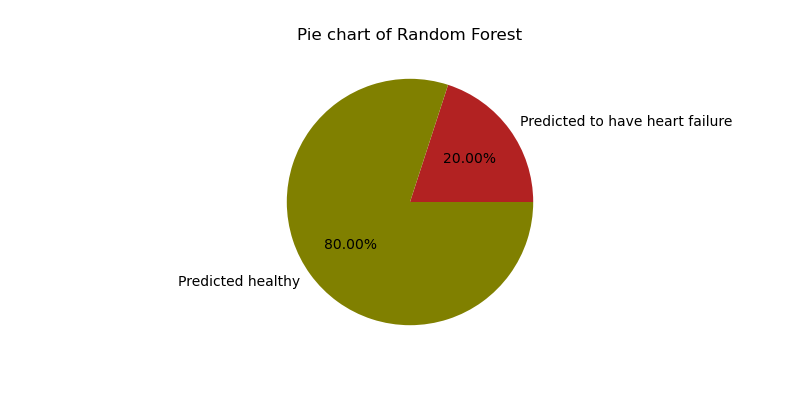
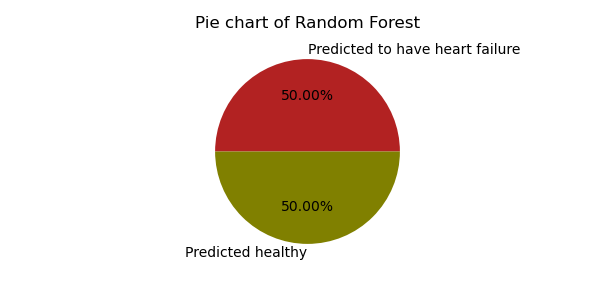
Update

diff --git a/prediction.py b/prediction.py
@@ -121,7 +121,8 @@ def plot_confusion_matrix(y_test, y_pred,modelname):
 def ROC_curve(y_test, y_pred_proba,modelname):
     fpr, tpr, _ = roc_curve(y_test, y_pred_proba[:,1])
     roc_auc = auc(fpr, tpr)
-    fig = plt.plot(fpr, tpr, 'b', label = '%s (AUC = %0.2f)' % (modelname,roc_auc))
+    fig = plt.figure()
+    plt.plot(fpr, tpr, 'b', label = '%s (AUC = %0.2f)' % (modelname,roc_auc))
     plt.plot([0, 1], [0, 1],'r--', label='No Skill Classifier')
     plt.plot([0, 0, 1], [0, 1, 1], linestyle=':', color='black', label='perfect performance')
     plt.legend(loc = 'lower right')
@@ -135,7 +136,8 @@ def ROC_curve(y_test, y_pred_proba,modelname):
 def PR_curve(y_test, y_pred_proba,modelname):
     precision, recall, _= precision_recall_curve(y_test,y_pred_proba[:,1])
     no_skill = len(y_test[y_test==1]) / len(y_test)
-    fig = plt.plot(recall, precision, marker='.', label='%s ' % modelname)
+    fig = plt.figure()
+    plt.plot(recall, precision, marker='.', label='%s ' % modelname)
     plt.plot([0, 1], [no_skill, no_skill], linestyle='--', label='No Skill Classifier')
     plt.xlabel('Recall')
     plt.ylabel('Precision')
@@ -154,6 +156,30 @@ def Scores(y_test,y_pred,y_pred_proba):
     return None
     
 
+def plot_learning_curve(dataset, estimator,modelname):
+    x=dataset.drop(columns='HeartDisease')#dataset except target
+    y=dataset['HeartDisease']#target
+    train_sizes, train_scores, test_scores = learning_curve(estimator, x, y)
+    train_scores_mean = np.mean(train_scores, axis=1)
+    train_scores_std = np.std(train_scores, axis=1)
+    test_scores_mean = np.mean(test_scores, axis=1)
+    test_scores_std = np.std(test_scores, axis=1)
+    fig = plt.figure()
+    plt.xlabel("Training examples")
+    plt.ylabel("Score")
+    plt.title('Learning Curve: %s '% modelname, fontsize='small')
+    plt.grid()
+    plt.fill_between(train_sizes, train_scores_mean - train_scores_std, train_scores_mean + train_scores_std, 
+                         alpha=0.1, color="b") 
+    plt.fill_between(train_sizes, test_scores_mean - test_scores_std, test_scores_mean + test_scores_std, 
+                         alpha=0.1, color="r")
+    plt.plot(train_sizes, train_scores_mean, 'o-', color="r",label="Training score")
+    plt.plot(train_sizes, test_scores_mean, 'o-', color="g",label="Cross-validation score")
+    plt.legend(loc="best")
+    plt.show()
+    fig.savefig("%s_Learning_curve.png" % modelname)
+
+
 def logisticRegression(dataset):
     X = dataset.drop(['HeartDisease'], axis=1)
     Y = dataset['HeartDisease']
@@ -170,8 +196,7 @@ def logisticRegression(dataset):
     ROC_curve(y_test, y_pred_proba,'Logistic Regression')
     PR_curve(y_test, y_pred_proba,'Logistic Regression')
     Scores(y_test,y_pred,y_pred_proba)
-    data=read_data()
-    plot_learning_curve(data,lr)
+    plot_learning_curve(dataset,lr,'Logistic Regression')
     return y_test, y_pred, y_pred_proba
 
 
@@ -191,8 +216,7 @@ def RandomForest(dataset):
     ROC_curve(y_test, y_pred_proba,'RandomForest')
     PR_curve(y_test, y_pred_proba,'RandomForest')
     Scores(y_test,y_pred,y_pred_proba)
-    data=read_data()
-    plot_learning_curve(data,rf)
+    plot_learning_curve(dataset,rf,'RandomForest')
     return y_test, y_pred, y_pred_proba
 
 
@@ -210,10 +234,8 @@ def decision_tree(dataset):
     ROC_curve(y_test, y_pred_proba,'Decision Tree')
     PR_curve(y_test, y_pred_proba,'Decision Tree')
     Scores(y_test,y_pred,y_pred_proba)
-    data=read_data()
-    plot_learning_curve(data,model)
+    plot_learning_curve(dataset,model,'Decision Tree')
     return y_test, y_pred, y_pred_proba
-
 
 
 def gaussian_nb(dataset):
@@ -229,32 +251,8 @@ def gaussian_nb(dataset):
     ROC_curve(y_test, y_pred_proba,'Gaussian Naive Bayes')
     PR_curve(y_test, y_pred_proba,'Gaussian Naive Bayes')
     Scores(y_test,y_pred,y_pred_proba)
-    data=read_data()
-    plot_learning_curve(data,GNB)
+    plot_learning_curve(dataset,GNB,'Gaussian Naive Bayes')
     return y_test, y_pred, y_pred_proba
-
-
-def plot_learning_curve(dataset, estimator):
-    x=dataset.drop(columns='HeartDisease')#dataset except target
-    y=dataset['HeartDisease']#target
-    train_sizes, train_scores, test_scores = learning_curve(estimator, x, y)
-    train_scores_mean = np.mean(train_scores, axis=1)
-    train_scores_std = np.std(train_scores, axis=1)
-    test_scores_mean = np.mean(test_scores, axis=1)
-    test_scores_std = np.std(test_scores, axis=1)
-    plt.xlabel("Training examples")
-    plt.ylabel("Score")
-    plt.title("Learning Curve",fontsize='small')
-    plt.grid()
-    plt.fill_between(train_sizes, train_scores_mean - train_scores_std, train_scores_mean + train_scores_std, 
-                         alpha=0.1, color="b") 
-    plt.fill_between(train_sizes, test_scores_mean - test_scores_std, test_scores_mean + test_scores_std, 
-                         alpha=0.1, color="r")
-    plt.plot(train_sizes, train_scores_mean, 'o-', color="r",label="Training score")
-    plt.plot(train_sizes, test_scores_mean, 'o-', color="g",label="Cross-validation score")
-    plt.legend(loc="best")
-
-    plt.show()
 
 
 def gui_visual():
@@ -266,84 +264,55 @@ def gui_visual():
         model_choice = gui.choicebox(msg='Which models would you like to use ', title=' Heart Failure Prediction', choices=['Logistic Regression','Random Forest','Decision Tree','Gaussian Naive Bayes'])
         gui.msgbox('Click to see your predicted result')
         # print(patience_information)
-        # print(model_choice)
-        patience_information_p = ['40', 'M', 'ATA', '140', '289', '0', 'Normal', '172', 'N', '0', 'Up']
-        # patience_information_n = ['49', 'F', 'NAP', '160', '180', '0', 'Normal', '156', 'N', '1', 'Flat']
-        new_input = DataFrame(patience_information_p).T
+        # patience_information_p = ['40', 'M', 'ATA', '140', '289', '0', 'Normal', '172', 'N', '0', 'Up']
+        patience_information_n = ['49', 'F', 'NAP', '160', '180', '0', 'Normal', '156', 'N', '1', 'Flat']
+        new_input = DataFrame(patience_information_n).T
         new_input.columns = ['Age','Sex','ChestPainType','RestingBP','Cholesterol','FastingBS','RestingECG','MaxHR','ExerciseAngina','Oldpeak','ST_Slope']
         new_input.insert(new_input.shape[1],'HeartDisease','0')
         new_input.apply(pd.to_numeric, errors='ignore')
         new_input.info()
         new_input[['Age','RestingBP','Cholesterol','FastingBS','MaxHR','Oldpeak']] = new_input[['Age','RestingBP','Cholesterol','FastingBS','MaxHR','Oldpeak']].apply(pd.to_numeric)
-        
+
         if model_choice == 'Logistic Regression':
             new_model = joblib.load("lr_model.joblib")
-            new_pred_data = read_data(new_input)
-            x_new = new_pred_data.drop(['HeartDisease'], axis=1)
-            result = new_model.predict(x_new)
-            prob = new_model.predict_proba(x_new)
-            print(prob)
-            print(result)
-            name = prob_draw(prob[0][1],prob[0][0],model_choice)
-            image = name
-            msg = "This is the prediction of heart failure based on %s model" % model_choice
-            choices = ["Believe","Retest"]
-            cho =gui.buttonbox(msg, image=image, choices = choices)
+            cho = show_gui(new_input,new_model,model_choice)
             if cho == 'Believe':
                 end.append(cho)
-            break
         elif model_choice =='Random Forest':
             new_model = joblib.load("rf_model.joblib")
-            new_pred_data = read_data(new_input)
-            x_new = new_pred_data.drop(['HeartDisease'], axis=1)
-            result = new_model.predict(x_new)
-            prob = new_model.predict_proba(x_new)
-            name = prob_draw(prob[0][1],prob[0][0],model_choice)
-            image = name
-            msg = "This is the prediction of heart failure based on %s model" % model_choice
-            choices = ["Belive","Retest"]
-            cho =gui.buttonbox(msg, image=image, choices = choices)
+            cho = show_gui(new_input,new_model,model_choice)
             if cho == 'Believe':
                 end.append(cho)
-            break
         elif model_choice =='Decision Tree':
             new_model = joblib.load("dt_model.joblib")
-            new_pred_data = read_data(new_input)
-            x_new = new_pred_data.drop(['HeartDisease'], axis=1)
-            result = new_model.predict(x_new)
-            prob = new_model.predict_proba(x_new)
-            name = prob_draw(prob[0][1],prob[0][0],model_choice)
-            image = name
-            msg = "This is the prediction of heart failure based on %s model" % model_choice
-            choices = ["Belive","Retest"]
-            cho =gui.buttonbox(msg, image=image, choices = choices)
+            cho = show_gui(new_input,new_model,model_choice)
             if cho == 'Believe':
                 end.append(cho)
-            break
         elif model_choice == 'Gaussian Naive Bayes':
             new_model = joblib.load("gnb_model.joblib")
-            new_pred_data = read_data(new_input)
-            x_new = new_pred_data.drop(['HeartDisease'], axis=1)
-            result = new_model.predict(x_new)
-            prob = new_model.predict_proba(x_new)
-            name = prob_draw(prob[0][1],prob[0][0],model_choice)
-            image = name
-            msg = "This is the prediction of heart failure based on %s model" % model_choice
-            choices = ["Belive","Retest"]
-            cho =gui.buttonbox(msg, image=image, choices = choices)
+            cho = show_gui(new_input,new_model,model_choice)
             if cho == 'Believe':
                 end.append(cho)
-            break
-    
+
+
+def show_gui(new_input,new_model,model_choice):
+    new_pred_data = read_data(new_input)
+    x_new = new_pred_data.drop(['HeartDisease'], axis=1)
+    prob = new_model.predict_proba(x_new)
+    name = prob_draw(prob[0][1],prob[0][0],model_choice)
+    msg = "This is the prediction of heart failure based on %s model" % model_choice
+    choices = ["Believe","Retest"]
+    cho =gui.buttonbox(msg, image=name, choices = choices)
+    return cho
+
 
 def prob_draw(positive,negative,fptr):
     labels=['Predicted to have heart failure','Predicted healthy']
     X=[positive,negative]  
     colors = ['firebrick', 'olive']
-    fig = plt.figure(figsize=(6, 3))
-    plt.pie(X,labels=labels,autopct='%1.2f%%',colors = colors) #画饼图（数据，数据对应的标签，百分数保留两位小数点）
+    fig = plt.figure(figsize=(8, 4))
+    plt.pie(X,labels=labels,autopct='%1.2f%%',colors = colors) 
     plt.title("Pie chart of %s" % fptr)
-
     fig.savefig("%s_PieChart.png" % fptr)
     return "%s_PieChart.png" % fptr
 
@@ -351,9 +320,9 @@ def prob_draw(positive,negative,fptr):
 if __name__ == '__main__':
     df = pd.read_csv('heart.csv')
     data = read_data(df)
-    logisticRegression(data)
-    RandomForest(data)
-    decision_tree(data)
-    gaussian_nb(data)
     EDA(data)
-    gui_visual()
+    # logisticRegression(data)
+    # RandomForest(data)
+    # decision_tree(data)
+    # gaussian_nb(data)
+    # gui_visual()
